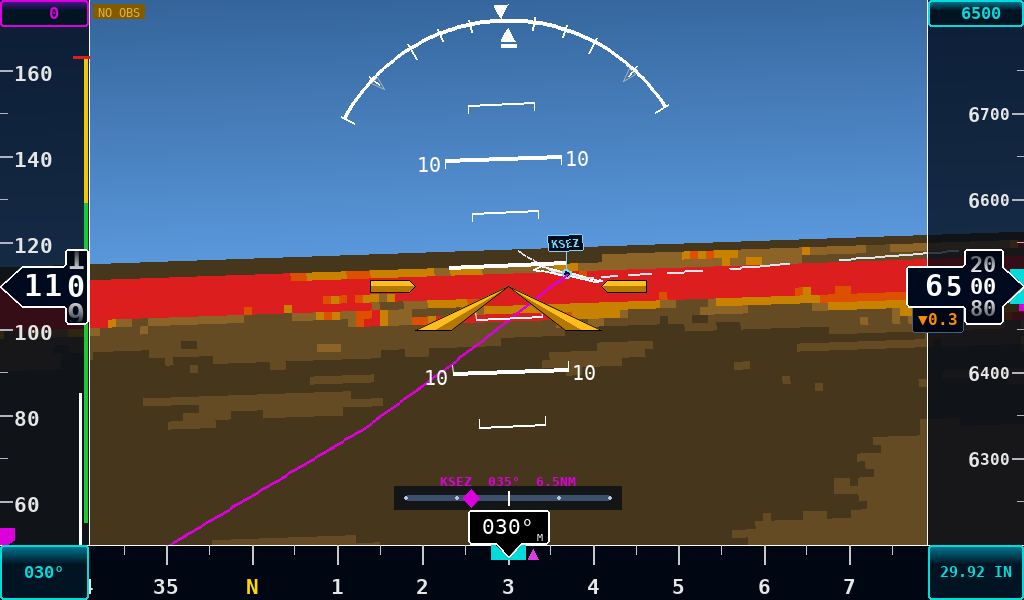
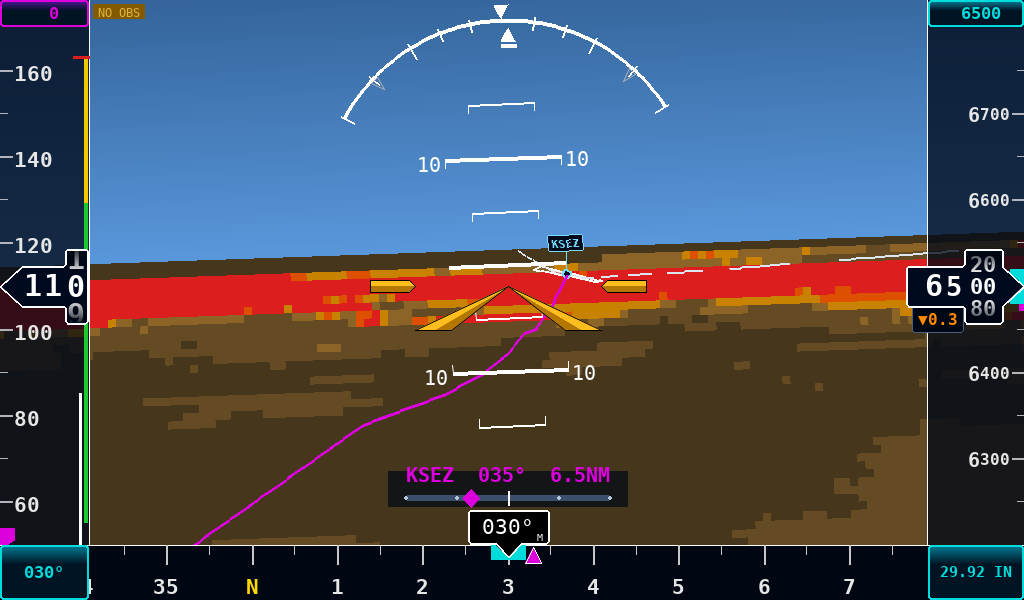
pi4: terrain-draped trace, larger CDI readout, tap-to-change, bigger TRK marker
Four direct-to nav refinements:

1. draw_direct_to_trace samples SRTM at every step so the magenta
   course drapes over the actual terrain instead of floating at a
   constant altitude. Drops the 80° forward-FOV cap so the line
   slides off the AI edge as the waypoint passes abeam rather than
   truncating mid-screen. Switches ground_only=False since
   terrain-following naturally handles the horizon.

2. CDI readout bumped from font 11 → 16 (50% larger), positioned
   3 px higher; backplate sized up to match.

3. Tap on the CDI strip (when a waypoint is active) opens the
   QWERTY keyboard for ident entry — same flow as the AIRPORT DATA
   "DIRECT TO" button, returning straight to the PFD on done.

4. The GPS-track pointer on the heading tape was 10×10 px and easy
   to miss; now 16×16 px filled magenta with a 1 px white outline
   so it pops against the dark heading tape.

https://claude.ai/code/session_01EHNH6of1VTKxfWWE5xjdGL

diff --git a/pi4/pfd.py b/pi4/pfd.py
@@ -1364,8 +1364,10 @@ def draw_heading_tape(surf, hdg, hdg_bug=None, track=None, gps_ok=False, hdg_src
         if abs(off) > 1.0:  # only show when there's visible wind/crab angle
             tx = int(CX + off * PX_PER_DEG)
             if 0 < tx < DISPLAY_W:
-                pygame.draw.polygon(surf, (220, 60, 220),
-                    [(tx, HDG_Y + 4), (tx - 5, HDG_Y + 14), (tx + 5, HDG_Y + 14)])
+                tri = [(tx, HDG_Y + 2),
+                       (tx - 8, HDG_Y + 18), (tx + 8, HDG_Y + 18)]
+                _filled_polygon(surf, tri, MAGENTA)
+                pygame.draw.polygon(surf, WHITE, tri, 1)
 
     # Heading box — scaled for font size. GPS TRK → magenta, MAG → white.
     hdg_col = MAGENTA if hdg_src == "gps" else WHITE
@@ -2427,6 +2429,23 @@ def handle_event(event, demo_mode):
         if _sim_state is not None and mode == "pfd":
             if CX - 30 <= x <= CX + 30 and CY - 30 <= y <= CY - 10:
                 disp["mode"] = "sim_controls"
+                return True
+
+        # Tap on the CDI strip (when a waypoint is active) → open keyboard
+        # to change waypoint.  Hit region matches the translucent backplate.
+        nv = disp.get("nav", {})
+        if nv.get("ident") and mode == "pfd":
+            _cdi_bar_w = max(140, int(DISPLAY_W * 0.20))
+            _cdi_bar_y = HDG_Y - 50
+            _cdi_l = CX - _cdi_bar_w // 2 - 18
+            _cdi_r = CX + _cdi_bar_w // 2 + 18
+            _cdi_t = _cdi_bar_y - 24
+            _cdi_b = _cdi_bar_y + 12
+            if _cdi_l <= x <= _cdi_r and _cdi_t <= y <= _cdi_b:
+                disp["kbd_target"] = "nav_ident"
+                disp["kbd_prev"]   = "pfd"
+                disp["kbd_buf"]    = nv.get("ident", "")
+                disp["mode"]       = "keyboard"
                 return True
 
         # Tap on alt bug button (top of alt tape) — hit region extends to HDG_H
@@ -4649,14 +4668,20 @@ def _nav_clear() -> None:
 def draw_direct_to_trace(surf, ai_rect, lat, lon, alt_ft,
                          hdg_deg, pitch_deg, roll_deg):
     """Solid magenta course line: the great circle from the activation
-    point to the active waypoint, drawn ground-anchored at the waypoint's
-    airport elevation.
+    point to the active waypoint, drawn ground-anchored to the actual
+    terrain elevation at each step (so the line drapes over ridges and
+    follows valleys rather than floating at a constant altitude).
 
-    This is a fixed line in space — it does not move under the aircraft
-    as you drift.  When the aircraft is off-course, the line appears
-    visibly to one side, matching the direction the CDI diamond
+    The line is a fixed line in space — it does not move under the
+    aircraft as you drift.  When the aircraft is off-course, the line
+    appears visibly to one side, matching the direction the CDI diamond
     deflects.  Re-activating direct-to (DIRECT TO / NEAREST) resets the
-    activation point and draws a new line."""
+    activation point and draws a new line.
+
+    No forward-FOV cap on segment endpoints: behind-aircraft points
+    project way off the side of the AI and get clipped naturally, so
+    the line "slides off the edge" as the waypoint passes abeam rather
+    than truncating mid-screen."""
     nv = disp.get("nav", {})
     if not nv.get("ident"):
         return
@@ -4676,20 +4701,33 @@ def draw_direct_to_trace(surf, ai_rect, lat, lon, alt_ft,
     px_per_deg = ah / 48.0
 
     # Step 0.5 nm or finer; cap step count so very-distant courses don't
-    # explode work per frame.
+    # explode work per frame (per-step DEM lookup is the costly bit).
     n_steps = max(8, int(course_nm / 0.5))
     n_steps = min(n_steps, 400)
 
     old_clip = surf.get_clip()
     surf.set_clip(pygame.Rect(ax, ay_r, aw, ah))
 
+    # Small offset above terrain so the line draws on top of the SVT
+    # mesh instead of z-fighting with it.
+    DRAPE_OFFSET_FT = 5.0
+
     prev_pt = None
     for i in range(0, n_steps + 1):
         t = i / n_steps
         s_lat, s_lon = _nav_gc_interp(act_lat, act_lon, wpt_lat, wpt_lon, t)
-        pt = _project_latlon(s_lat, s_lon, lat, lon, alt_ft, wpt_elev,
+        try:
+            terrain_elev = get_elevation_ft(SRTM_DIR, s_lat, s_lon)
+            if terrain_elev is None or terrain_elev < -100:
+                terrain_elev = wpt_elev   # fallback: SRTM gap
+        except Exception:
+            terrain_elev = wpt_elev
+        elev_ft = terrain_elev + DRAPE_OFFSET_FT
+
+        pt = _project_latlon(s_lat, s_lon, lat, lon, alt_ft, elev_ft,
                              hdg_deg, pitch_deg, roll_deg, cx_ai, cy_ai,
-                             px_per_deg, max_fov_deg=80, ground_only=True)
+                             px_per_deg, max_fov_deg=None,
+                             ground_only=False)
         if pt is None:
             prev_pt = None
             continue
@@ -4729,10 +4767,10 @@ def draw_cdi(surf):
     bar_y = HDG_Y - 50            # leaves room for the readout box (28-32 px)
     bar_x = CX - bar_w // 2
 
-    # Translucent backplate so the bar reads against terrain
-    plate = pygame.Surface((bar_w + 24, 24), pygame.SRCALPHA)
+    # Translucent backplate sized for the larger readout font
+    plate = pygame.Surface((bar_w + 36, 36), pygame.SRCALPHA)
     plate.fill((0, 8, 22, 180))
-    surf.blit(plate, (bar_x - 12, bar_y - 9))
+    surf.blit(plate, (bar_x - 18, bar_y - 24))
 
     # Bar + tick marks (centre + ±50% + full-scale dots)
     pygame.draw.rect(surf, (60, 80, 110), (bar_x, bar_y, bar_w, bar_h),
@@ -4755,9 +4793,11 @@ def draw_cdi(surf):
     dpts = [(dcx, dcy - 9), (dcx + 8, dcy), (dcx, dcy + 9), (dcx - 8, dcy)]
     _filled_polygon(surf, dpts, MAGENTA)
 
-    # Readout: ident · BRG · DIST — centred above the bar
+    # Readout: ident · BRG · DIST — centred above the bar.  Font 50% larger
+    # than original (11→16); positioned so the text bottom sits 3 px higher
+    # than the original layout would have placed it.
     readout = f"{ident}  {int(round(brg)) % 360:03d}°  {dist_nm:.1f}NM"
-    _text(surf, readout, 11, MAGENTA, bold=True, cx=CX, cy=bar_y - 14)
+    _text(surf, readout, 16, MAGENTA, bold=True, cx=CX, cy=bar_y - 20)
 
 
 # ── Runway polygons + extended centerlines ───────────────────────────────────
